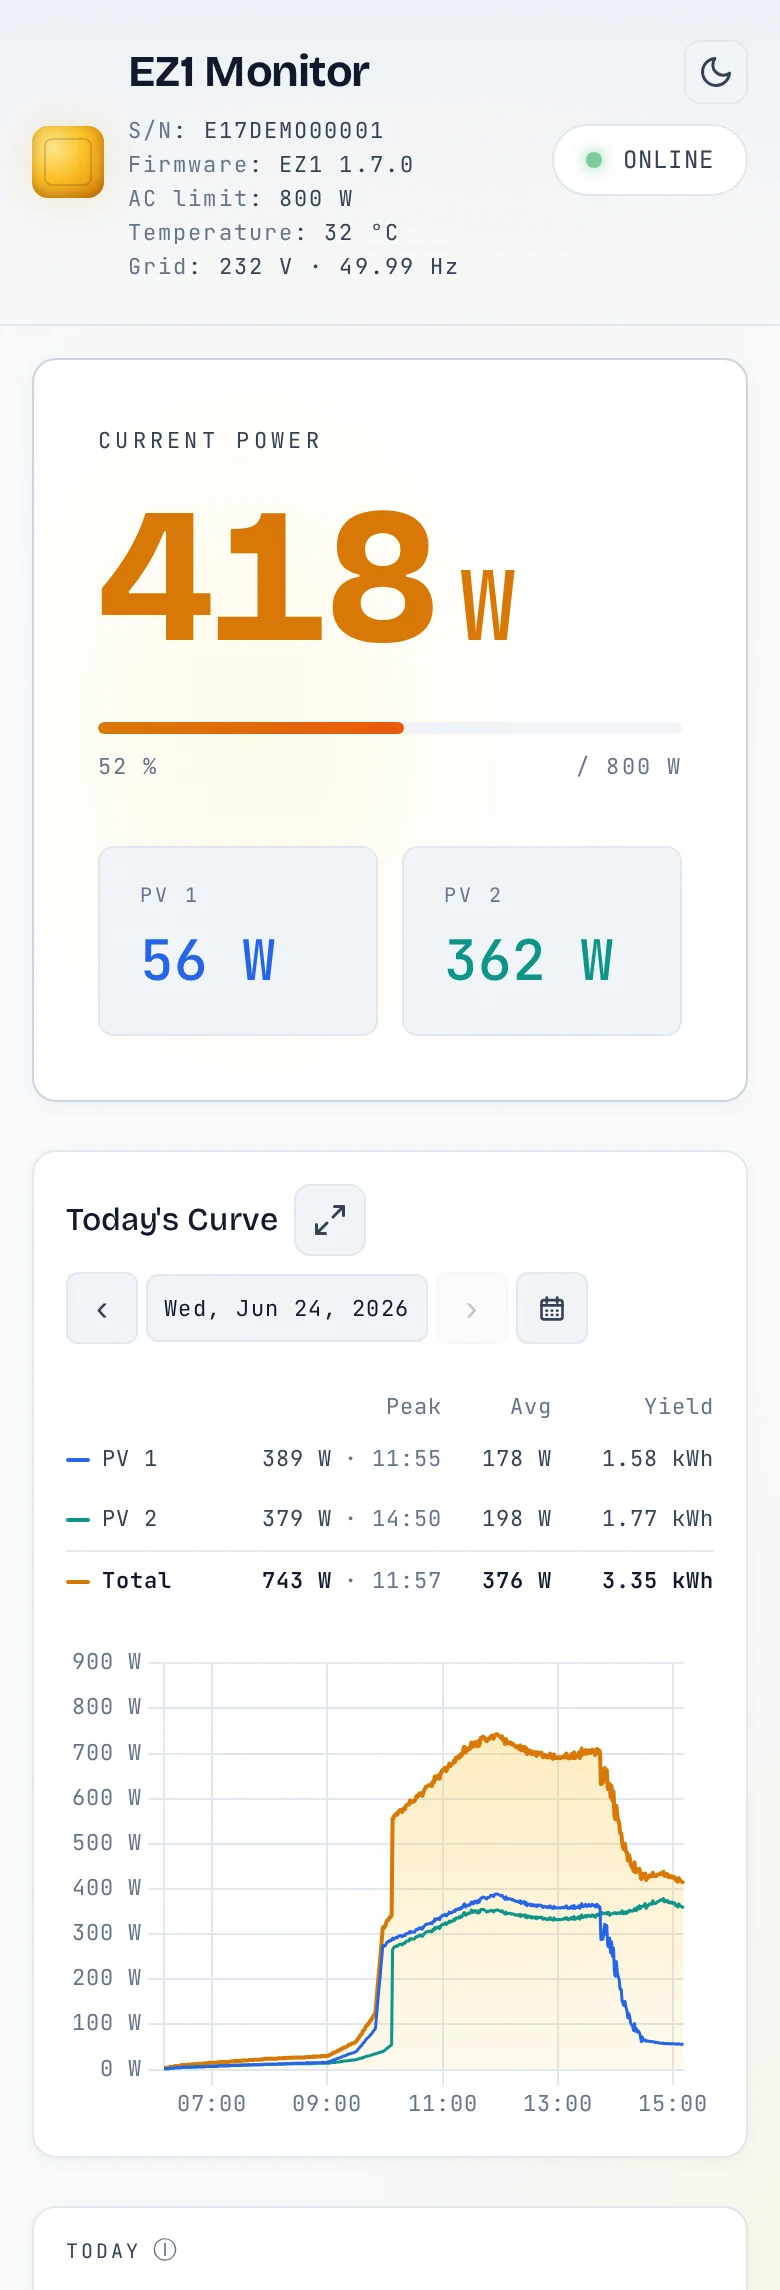
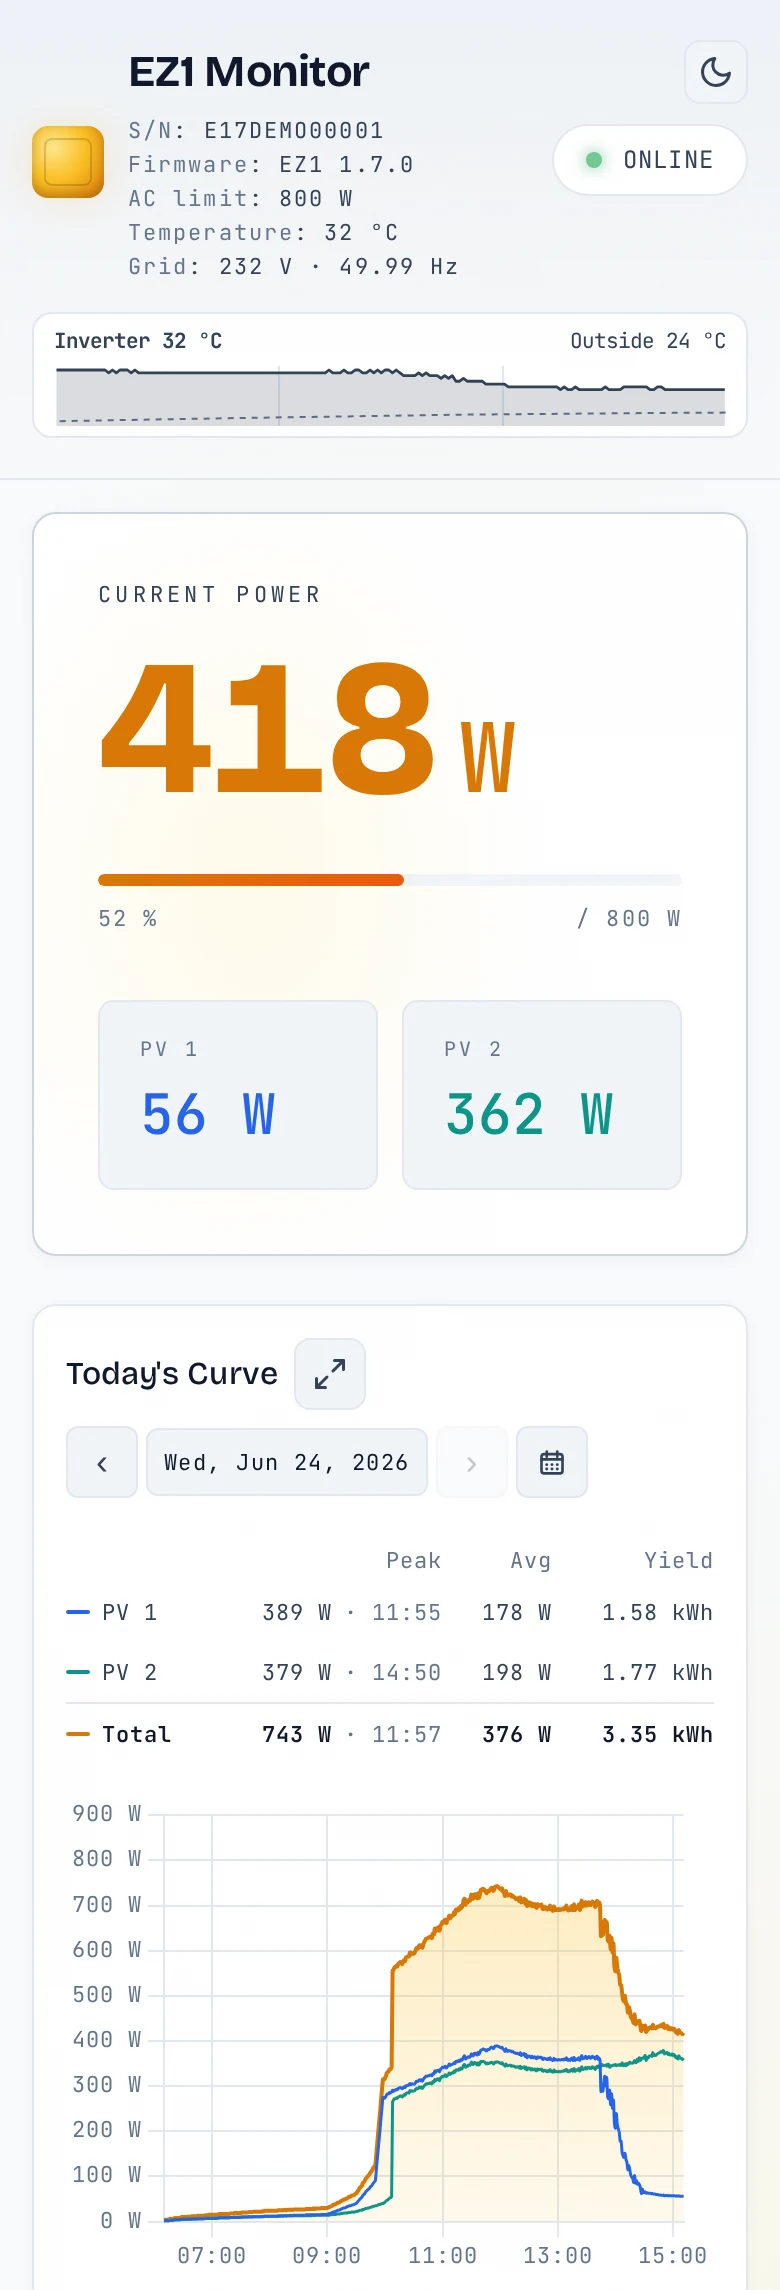
docs: v1.15.2 notes, new screenshots
Demo data now carries an inverter temperature history.

diff --git a/tools/screenshots/demo.py b/tools/screenshots/demo.py
@@ -197,7 +197,8 @@ CREATE TABLE IF NOT EXISTS measurements (
     te2           REAL,
     online        INTEGER,
     co2_g_per_kwh REAL,
-    price_per_kwh REAL
+    price_per_kwh REAL,
+    temp_c        REAL
 );
 CREATE TABLE IF NOT EXISTS device_info (
     id            INTEGER PRIMARY KEY CHECK (id = 1),
@@ -233,16 +234,16 @@ def build_db(path: str) -> None:
                     continue
                 r = reading(d, m)
                 rows.append((_ts(d, m), r["p1"], r["p2"], r["e1"], r["e2"],
-                             r["te1"], r["te2"], 1, CO2_G_PER_KWH, price))
+                             r["te1"], r["te2"], 1, CO2_G_PER_KWH, price, _temperature(r)))
             if d < today and step == 1:
                 # The poller's single offline marker per night.
                 rows.append((_ts(d, last) + 120, None, None, None, None,
-                             None, None, 0, None, None))
+                             None, None, 0, None, None, None))
         d += timedelta(days=1)
 
     con = sqlite3.connect(path)
     con.executescript(SCHEMA)
-    con.executemany("INSERT INTO measurements VALUES (?,?,?,?,?,?,?,?,?,?)", rows)
+    con.executemany("INSERT INTO measurements VALUES (?,?,?,?,?,?,?,?,?,?,?)", rows)
     con.execute(
         "INSERT INTO device_info (id, device_id, firmware, min_power, max_power,"
         " last_seen) VALUES (1, ?, ?, 30, ?, ?)",
@@ -262,11 +263,16 @@ def build_db(path: str) -> None:
 
 # --- serve -------------------------------------------------------------------
 
+def _temperature(r: dict) -> int:
+    """The inverter's temperature, warmer under load."""
+    return round(23 + 0.022 * (r["p1"] + r["p2"]))
+
+
 def detail(d: date, minute: int) -> dict:
-    """The reading plus temperature and grid values, warmer under load."""
+    """The reading plus temperature and grid values."""
     r = reading(d, minute)
     rng = random.Random(d.toordinal() * 1440 + minute)
-    return {**r, "t": round(23 + 0.022 * (r["p1"] + r["p2"])),
+    return {**r, "t": _temperature(r),
             "gv": round(232 + rng.uniform(-2, 4)),
             "gf": round(50 + rng.uniform(-0.03, 0.03), 2)}
 
@@ -360,7 +366,7 @@ def build_weather(path, lat, lon):
     """A forecast in the weather cache's format, its radiation taken from the
     same model as the power. A restart within the hour reuses that file, so
     the monitor doesn't ask Open-Meteo during the shots."""
-    times, radiation, codes = [], [], []
+    times, radiation, codes, temperatures = [], [], [], []
     for days_ahead in range(-23, 4):
         d = date.today() + timedelta(days=days_ahead)
         minutes = day_profile(d)[0]
@@ -368,10 +374,12 @@ def build_weather(path, lat, lon):
             times.append(_ts(d, hour * 60) + 3600)
             radiation.append(round(sum(a + b for a, b in minutes[hour * 60:(hour + 1) * 60]) / 60, 1))
             codes.append(DEMO_SKY[hour])
+            # Coolest around sunrise, warmest in the late afternoon.
+            temperatures.append(round(17 + 7 * math.sin((hour + 1 - 10) / 24 * 2 * math.pi), 1))
     Path(path).write_text(json.dumps({
         "version": 1, "lat": lat, "lon": lon, "fetched_at": time.time(),
         "times": times, "radiation": radiation,
-        "codes": codes, "temperatures": [24.0] * len(times),
+        "codes": codes, "temperatures": temperatures,
     }), encoding="utf-8")
 
 

diff --git a/README.md b/README.md
@@ -49,6 +49,9 @@ to live grid CO₂ data.
 - ⚡ **Live view.** Total and per-input power, refreshed every 10 s while the
   sun is up and right away when you come back to the tab, plus inverter
   temperature, grid voltage and frequency where the firmware reports them.
+  A small graph in the header shows the inverter's temperature over the last
+  three hours, light blue at 3 °C and below, red from 60 °C, and with
+  `WEATHER_ENABLED` the outside temperature as a dashed line.
 - 📈 **Every day, browsable.** The day's curve plus a day picker for every
   recorded day in the retention window — or jump there from a history bar.
 - 🌤 **Shading at a glance.** Peak, average and yield per panel and in total
@@ -424,6 +427,7 @@ unauthenticated — meant for the LAN.
 | `GET /api/history?range=multiyear&granularity=monthly\|yearly` | All years |
 | `GET /api/yield-curve?date=YYYY-MM-DD` | A day in 5-minute slots with learned expectation, today's projection, forecast and hourly weather |
 | `GET /api/site` | Location and map cut-out for the sun path card |
+| `GET /api/temperatures` | Inverter temperature of the last three hours, plus the outside temperature with `WEATHER_ENABLED` |
 | `GET /api/stats` | Aggregated statistics with same-period and YoY comparisons |
 | `GET /api/highscores` | All-time best day/week/month/year with animation state |
 | `GET /api/aggregates` | Long-term yearly aggregates (survive retention) |

diff --git a/UPGRADING.md b/UPGRADING.md
@@ -31,6 +31,21 @@ are idempotent. Only these releases do anything noticeable on first start:
 
 The rest of this file is the release history, newest first.
 
+## From v1.15.1 to v1.15.2
+
+No manual steps, no database changes.
+
+- **Temperature graph in the header.** Below the status pill, the inverter's
+  temperature over the last three hours, refreshed every minute, from the
+  readings the monitor already stores. It turns light blue at 3 °C and below
+  and red from 60 °C. With `WEATHER_ENABLED` the outside temperature runs
+  along as a dashed line. On phones it gets its own row below the header.
+  APsystems publishes no derating point for the EZ1, so 60 °C is a cautious
+  mark: the datasheet allows up to 65 °C around the inverter.
+- **Faster camera in the sun path.** Moves start fast and brake towards the
+  end (1.3 s), and the house button's replay of the day does the same.
+- New endpoint `GET /api/temperatures`.
+
 ## From v1.15.0 to v1.15.1
 
 No manual steps, no database changes.
